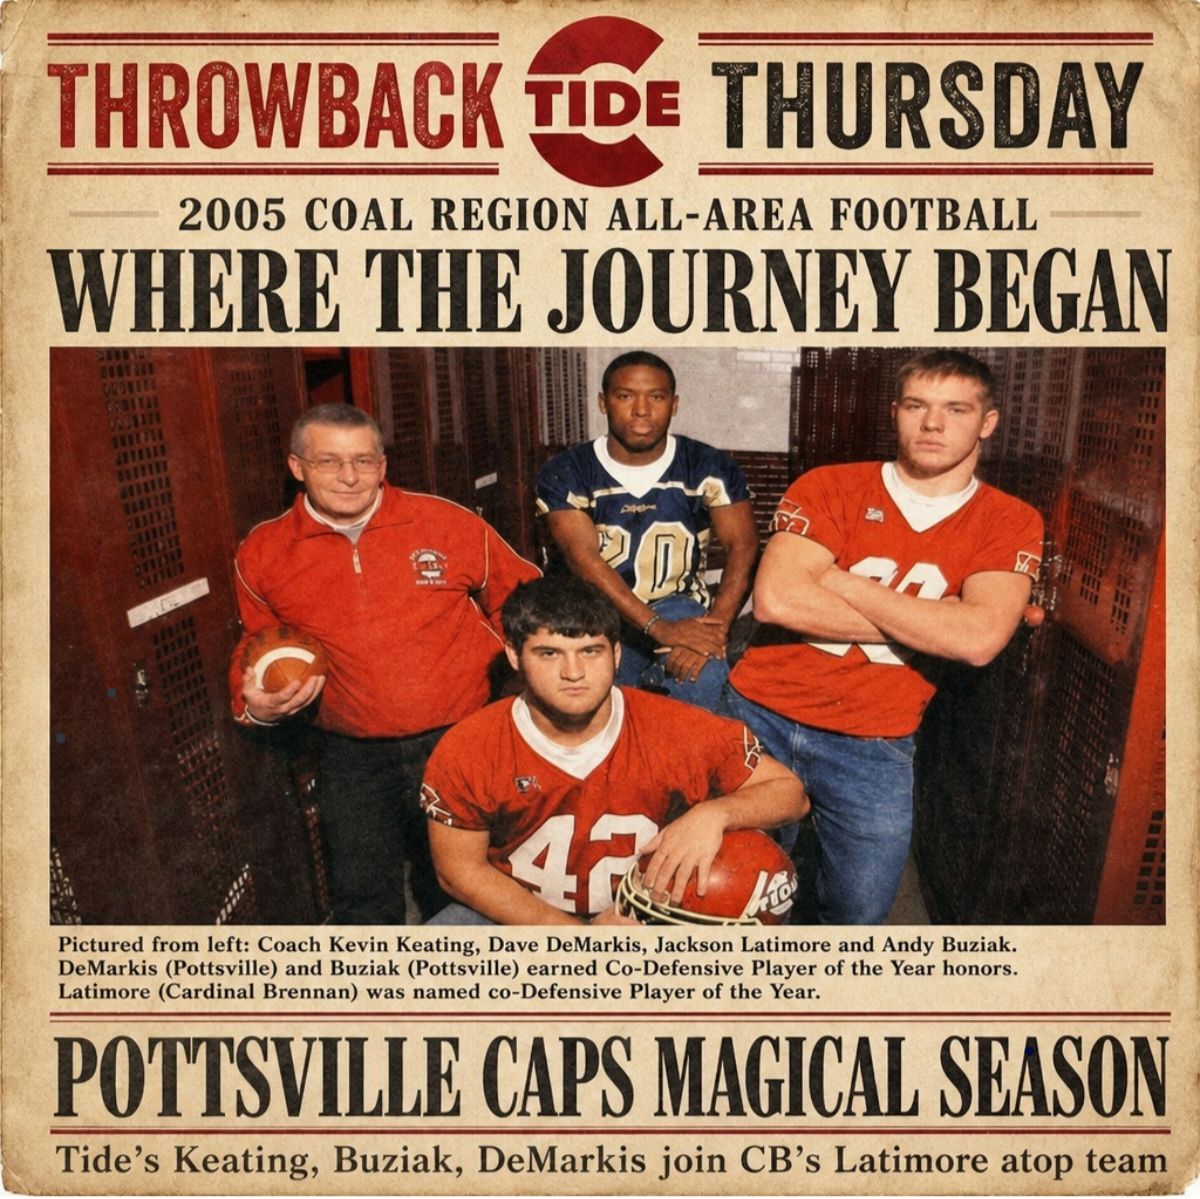
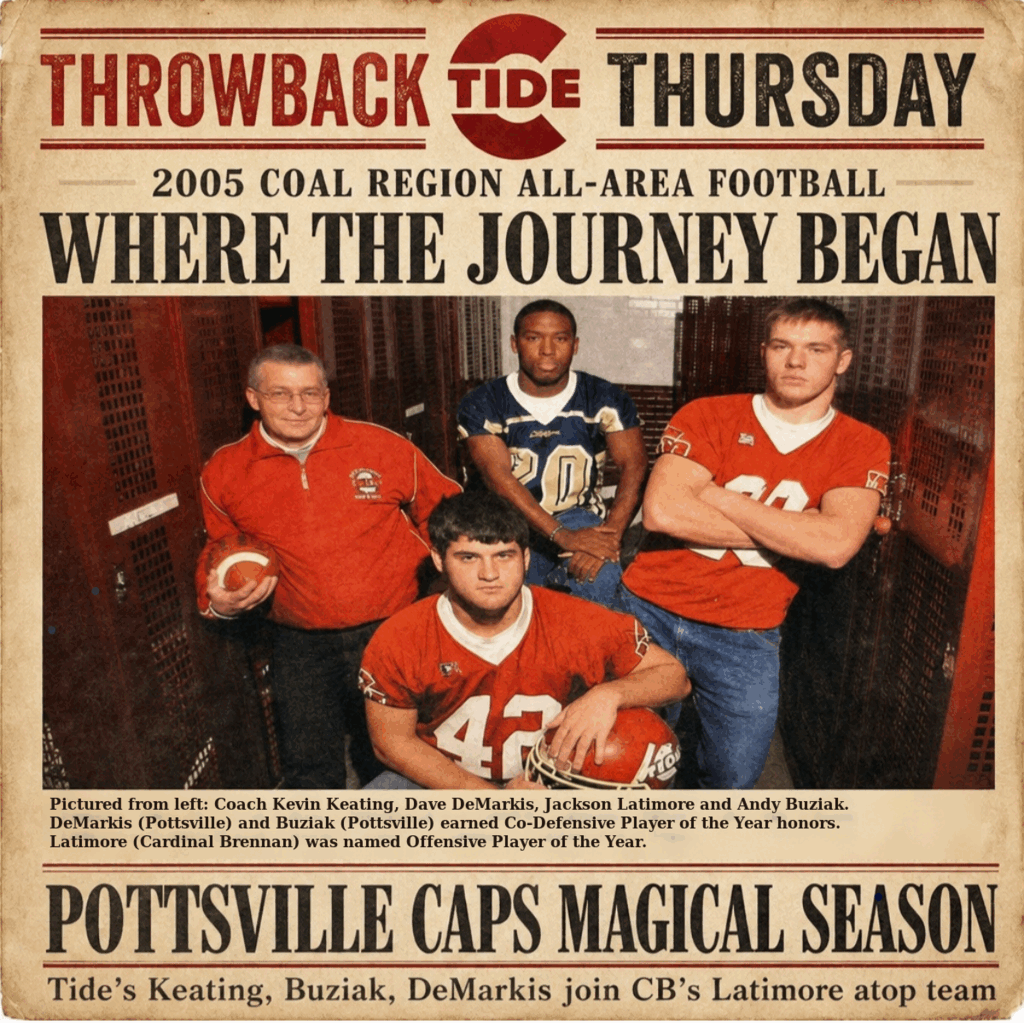
Correct PAHS 2005 offensive player honors

Changed region(s): [[0.0312, 0.7576, 0.8438, 0.8485]]

diff --git a/app/pahs/PahsCampaignGraphics.tsx b/app/pahs/PahsCampaignGraphics.tsx
@@ -209,7 +209,7 @@ export function PahsThrowbackGraphic({ className }: GraphicProps) {
       </div>
       <img src={throwbackImageUrl} alt="2005 Coal Region All-Area Football — Where the Journey Began" style={{ display: 'block', width: '100%', height: 'auto' }} />
       <div style={{ padding: '.65rem 1rem 1rem', fontFamily: 'Georgia, serif', fontSize: 'clamp(.85rem, 2.4vw, 1.05rem)', fontWeight: 700, lineHeight: 1.25 }}>
-        Pictured from left: Coach Kevin Keating, Dave DeMarkis, Jackson Latimore, and Andy Buziak. Latimore was named Co-Defensive Player of the Year.
+        Pictured from left: Coach Kevin Keating, Dave DeMarkis, Jackson Latimore, and Andy Buziak. Latimore was named Offensive Player of the Year.
       </div>
     </div>
   )

diff --git a/app/pahs/form/page.tsx b/app/pahs/form/page.tsx
@@ -142,7 +142,7 @@ export default function PahsForm() {
           />
           <div className="pf-spotlight-text">
             <h3>Where the Journey Began</h3>
-            <p>Before sponsoring the 2026 PAHS Football season, Jackson&apos;s dedication started on the local gridiron as a 2005 Co-Defensive Player of the Year. Today, he brings that same relentless drive to protecting your family&apos;s future.</p>
+            <p>Before sponsoring the 2026 PAHS Football season, Jackson&apos;s dedication started on the local gridiron as the 2005 Republican &amp; Herald All-Area Offensive Player of the Year. Today, he brings that same relentless drive to protecting your family&apos;s future.</p>
           </div>
         </div>
 
